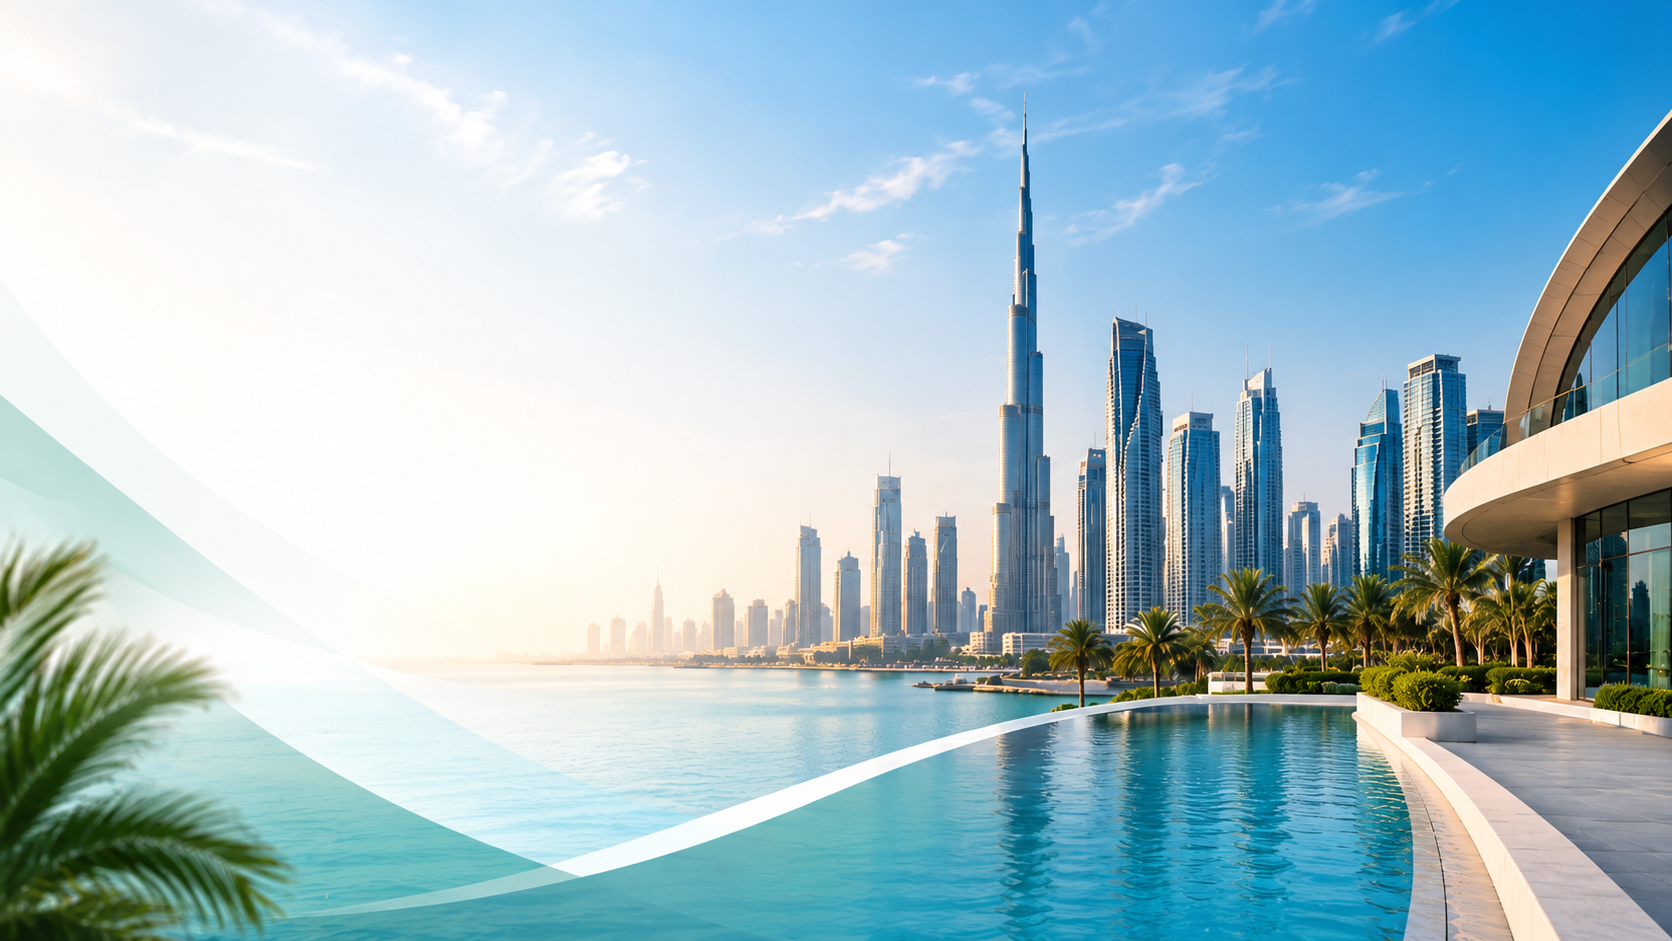
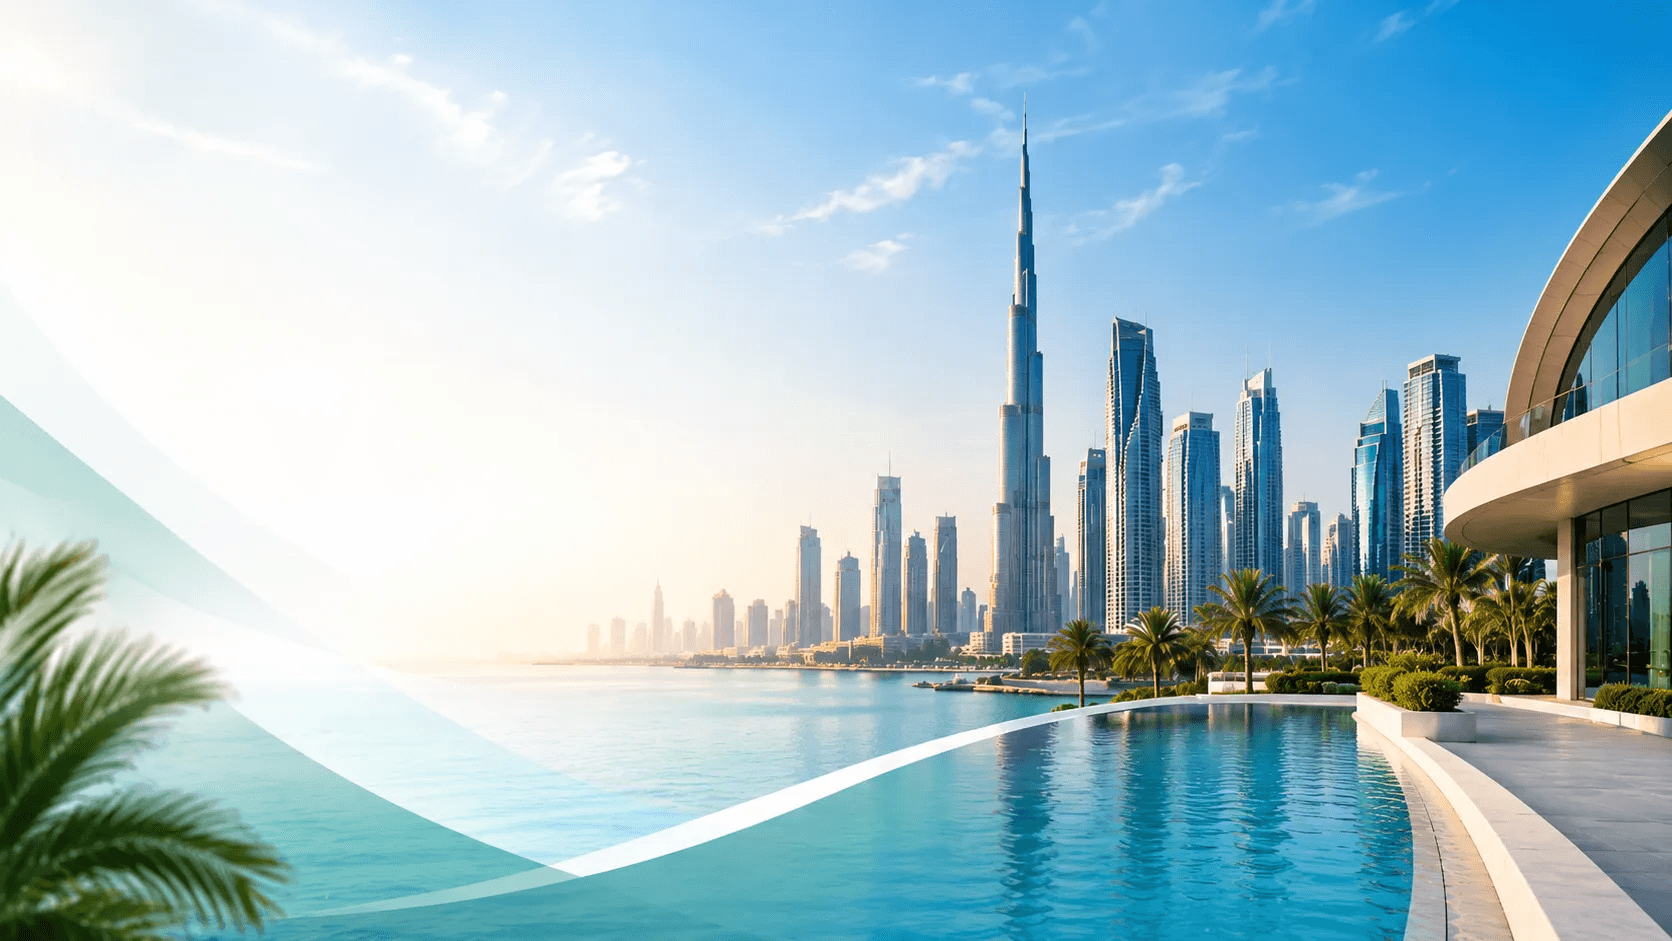
feat: add initial frontend components, global styles, and layout for auditclue web application

diff --git a/src/components/HeroSection.tsx b/src/components/HeroSection.tsx
@@ -1,13 +1,12 @@
 "use client";
 
-import { useState, useEffect, type FormEvent } from "react";
+import { useState, type FormEvent } from "react";
 import {
   ArrowDown,
   ArrowUpRight,
   CheckCircle2,
   LockKeyhole,
 } from "lucide-react";
-import FlowText from "@/components/FlowText";
 
 const services = [
   { value: "corporate-tax", label: "UAE Corporate Tax" },
@@ -29,25 +28,6 @@ export default function HeroSection() {
     message: "",
   });
   const [submitted, setSubmitted] = useState(false);
-  const [heroActive, setHeroActive] = useState(false);
-
-  useEffect(() => {
-    const triggerHero = () => {
-      setHeroActive(true);
-    };
-
-    window.addEventListener("auditclue:curtainOpen", triggerHero);
-
-    // Fallback: in case event was already fired or page accessed directly
-    const fallback = setTimeout(() => {
-      setHeroActive(true);
-    }, 1000);
-
-    return () => {
-      window.removeEventListener("auditclue:curtainOpen", triggerHero);
-      clearTimeout(fallback);
-    };
-  }, []);
 
   function handleSubmit(event: FormEvent<HTMLFormElement>) {
     event.preventDefault();
@@ -65,63 +45,24 @@ export default function HeroSection() {
       <div className="mx-auto grid max-w-355 grid-cols-1 items-center gap-8 sm:gap-12 lg:grid-cols-12 lg:gap-14 px-4 sm:px-8 lg:px-10">
         {/* Left: Editorial introduction */}
         <div className="lg:col-span-6">
-          <div
-            className={`eyebrow mb-4 sm:mb-6 text-[11px] sm:text-[13px] tracking-wider transition-opacity duration-500 ${
-              heroActive ? "hero-fade-up" : "opacity-0"
-            }`}
-            style={{ animationDelay: "0.05s" }}
-          >
+          <div className="eyebrow mb-4 sm:mb-6 text-[11px] sm:text-[13px] tracking-wider">
             <span className="h-2 w-2 rounded-full bg-brand-teal" />
             Trusted by Businesses Across UAE
           </div>
 
-          <h1
-            aria-label="Fully Digital Audit, Tax & Advisory Services for Modern Businesses"
-            className="max-w-190 text-[clamp(2rem,6.8vw,4.6rem)] font-medium leading-[1.14] sm:leading-[1.08] tracking-[-0.035em] sm:tracking-[-0.045em] text-brand-navy"
-          >
-            <span aria-hidden="true">
-              {heroActive ? (
-                <>
-                  <FlowText
-                    text="Fully Digital Audit, Tax"
-                    startDelay={0.05}
-                    charDelay={0.018}
-                  />
-                  <br />
-                  <FlowText
-                    text="& Advisory Services for Modern Businesses"
-                    startDelay={0.32}
-                    charDelay={0.018}
-                    className="text-brand-teal-dark"
-                  />
-                </>
-              ) : (
-                <span className="opacity-0">
-                  Fully Digital Audit, Tax
-                  <br />
-                  <span className="text-brand-teal-dark">
-                    & Advisory Services for Modern Businesses
-                  </span>
-                </span>
-              )}
+          <h1 className="max-w-190 text-[clamp(2rem,6.8vw,4.6rem)] font-medium leading-[1.14] sm:leading-[1.08] tracking-[-0.035em] sm:tracking-[-0.045em] text-brand-navy">
+            Fully Digital Audit, Tax
+            <br />
+            <span className="text-brand-teal-dark">
+              & Advisory Services for Modern Businesses
             </span>
           </h1>
 
-          <p
-            className={`mt-4 sm:mt-7 max-w-147.5 text-[15px] sm:text-lg leading-relaxed sm:leading-8 text-(--text-secondary) transition-opacity duration-500 ${
-              heroActive ? "hero-fade-up" : "opacity-0"
-            }`}
-            style={{ animationDelay: "0.55s" }}
-          >
+          <p className="mt-4 sm:mt-7 max-w-147.5 text-[15px] sm:text-lg leading-relaxed sm:leading-8 text-(--text-secondary)">
             Auditclue Global Advisory Services LLC provides end-to-end digital solutions for audit, accounting, UAE corporate tax, VAT, finance, compliance, and business advisory services.
           </p>
 
-          <div
-            className={`mt-6 sm:mt-8 flex flex-col gap-3 sm:flex-row sm:items-center transition-opacity duration-500 ${
-              heroActive ? "hero-fade-up" : "opacity-0"
-            }`}
-            style={{ animationDelay: "0.7s" }}
-          >
+          <div className="mt-6 sm:mt-8 flex flex-col gap-3 sm:flex-row sm:items-center">
             <a
               href="#consult-form"
               className="group relative inline-flex items-center justify-center gap-3 overflow-hidden rounded-full bg-brand-teal px-7 min-h-12 sm:min-h-13 text-sm sm:text-base font-semibold text-white shadow-[0_6px_22px_rgba(54,167,131,0.28)] transition-all duration-500 ease-[cubic-bezier(0.16,1,0.3,1)] hover:shadow-[0_12px_32px_rgba(23,45,67,0.3)] hover:-translate-y-0.5 active:translate-y-0 active:scale-[0.98]"
@@ -190,12 +131,7 @@ export default function HeroSection() {
           </div>
 
           {/* Hand-drawn annotation: Growing Businesses Across UAE (Desktop & Tablet) */}
-          <div
-            className={`mt-6 hidden items-center gap-2 pl-4 sm:flex lg:mt-8 lg:pl-14 transition-opacity duration-500 ${
-              heroActive ? "hero-fade-up" : "opacity-0"
-            }`}
-            style={{ animationDelay: "0.85s" }}
-          >
+          <div className="mt-6 hidden items-center gap-2 pl-4 sm:flex lg:mt-8 lg:pl-14">
             <span className="font-caveat text-xl font-bold leading-tight text-[#475569] sm:text-2xl">
               Growing
               <br />
@@ -222,10 +158,7 @@ export default function HeroSection() {
         {/* Right: Consultation card */}
         <div
           id="consult-form"
-          className={`scroll-mt-20 lg:col-span-6 mt-4 lg:mt-0 transition-opacity duration-500 ${
-            heroActive ? "hero-fade-up" : "opacity-0"
-          }`}
-          style={{ animationDelay: "0.2s" }}
+          className="scroll-mt-20 lg:col-span-6 mt-4 lg:mt-0"
         >
           <div className="relative rounded-2xl border border-[var(--border-default)] bg-white p-5 sm:p-8 lg:p-9 shadow-[0_24px_80px_rgba(35,63,91,0.10)]">
             {submitted ? (

diff --git a/src/components/WhyChooseSection.tsx b/src/components/WhyChooseSection.tsx
@@ -310,9 +310,9 @@ export default function WhyChooseSection() {
                   </span>
                 </div>
 
-                <h4 className="text-lg font-serif font-medium text-white mb-2 leading-snug">
+                <h3 className="text-lg font-serif font-medium text-white mb-2 leading-snug">
                   {card3.title}
-                </h4>
+                </h3>
 
                 <p className="text-sm text-[#A8B7C9] leading-relaxed font-sans">
                   {card3.desc}
@@ -338,9 +338,9 @@ export default function WhyChooseSection() {
                   </span>
                 </div>
 
-                <h4 className="text-lg font-serif font-medium text-white mb-2 leading-snug">
+                <h3 className="text-lg font-serif font-medium text-white mb-2 leading-snug">
                   {card4.title}
-                </h4>
+                </h3>
 
                 <p className="text-sm text-[#A8B7C9] leading-relaxed font-sans">
                   {card4.desc}
@@ -366,9 +366,9 @@ export default function WhyChooseSection() {
                   </span>
                 </div>
 
-                <h4 className="text-lg font-serif font-medium text-white mb-2 leading-snug">
+                <h3 className="text-lg font-serif font-medium text-white mb-2 leading-snug">
                   {card5.title}
-                </h4>
+                </h3>
 
                 <p className="text-sm text-[#A8B7C9] leading-relaxed font-sans">
                   {card5.desc}
@@ -394,9 +394,9 @@ export default function WhyChooseSection() {
                   </span>
                 </div>
 
-                <h4 className="text-lg font-serif font-medium text-white mb-2 leading-snug">
+                <h3 className="text-lg font-serif font-medium text-white mb-2 leading-snug">
                   {card6.title}
-                </h4>
+                </h3>
 
                 <p className="text-sm text-[#A8B7C9] leading-relaxed font-sans">
                   {card6.desc}

diff --git a/src/components/ClientPortalSection.tsx b/src/components/ClientPortalSection.tsx
@@ -308,9 +308,9 @@ export default function ClientPortalSection() {
                   <ShieldCheck className="w-4 h-4" />
                 </div>
                 <div>
-                  <h4 className="text-sm font-semibold text-white mb-0.5">
+                  <h3 className="text-sm font-semibold text-white mb-0.5">
                     Immutable Audit Documentation
-                  </h4>
+                  </h3>
                   <p className="text-xs text-[#A8B7C9] leading-relaxed">
                     Bank-ready IFRS financial statements and tax return receipts archived permanently with tamper-proof audit trails.
                   </p>
@@ -322,9 +322,9 @@ export default function ClientPortalSection() {
                   <Calendar className="w-4 h-4" />
                 </div>
                 <div>
-                  <h4 className="text-sm font-semibold text-white mb-0.5">
+                  <h3 className="text-sm font-semibold text-white mb-0.5">
                     Automated Statutory Deadlines
-                  </h4>
+                  </h3>
                   <p className="text-xs text-[#A8B7C9] leading-relaxed">
                     Automated SMS and email reminders prior to any FTA VAT or Corporate Tax due date, eliminating penalty risks.
                   </p>
@@ -336,9 +336,9 @@ export default function ClientPortalSection() {
                   <HardDrive className="w-4 h-4" />
                 </div>
                 <div>
-                  <h4 className="text-sm font-semibold text-white mb-0.5">
+                  <h3 className="text-sm font-semibold text-white mb-0.5">
                     Multi-Entity Portfolio Consolidation
-                  </h4>
+                  </h3>
                   <p className="text-xs text-[#A8B7C9] leading-relaxed">
                     Switch between Free Zone entities, mainland trading companies, and offshore holding structures within one dashboard.
                   </p>

diff --git a/src/components/Footer.tsx b/src/components/Footer.tsx
@@ -150,7 +150,7 @@ export default function Footer() {
 
           {/* Column 1 — Links & Tools */}
           <div>
-            <h4 className="text-sm font-bold text-white mb-5 tracking-wide">Navigation & Tools</h4>
+            <h3 className="text-sm font-bold text-white mb-5 tracking-wide">Navigation & Tools</h3>
             <ul className="space-y-2.5 text-[14px] text-[#A8B7C9]">
               <li><Link href="/#hero" className="hover:text-white transition-colors">Home</Link></li>
               <li><Link href="/about" className="hover:text-white transition-colors">About Us</Link></li>
@@ -166,7 +166,7 @@ export default function Footer() {
 
           {/* Column 2 — Practices */}
           <div>
-            <h4 className="text-sm font-bold text-white mb-5 tracking-wide">Practices</h4>
+            <h3 className="text-sm font-bold text-white mb-5 tracking-wide">Practices</h3>
             <ul className="space-y-3 text-[15px] text-[#A8B7C9]">
               <li><Link href="/services/corporate-tax" className="hover:text-white transition-colors">Corporate Tax (9%)</Link></li>
               <li><Link href="/services/audit-assurance" className="hover:text-white transition-colors">Statutory Audit</Link></li>
@@ -187,7 +187,7 @@ export default function Footer() {
 
             {/* Heading spanning both */}
             <div className="col-span-1 sm:col-span-2">
-              <h4 className="text-sm font-bold text-white mb-5 tracking-wide">Connect & Verify</h4>
+              <h3 className="text-sm font-bold text-white mb-5 tracking-wide">Connect & Verify</h3>
             </div>
 
             {/* Dubai Desk */}

diff --git a/src/components/Navbar.tsx b/src/components/Navbar.tsx
@@ -213,9 +213,11 @@ export default function Navbar() {
             <Image
               src="/logo-transparent.png"
               alt="Auditclue Global Advisory Services LLC"
-              width={340}
-              height={120}
+              width={250}
+              height={75}
               priority
+              fetchPriority="high"
+              sizes="(max-width: 640px) 175px, 250px"
               className="h-auto w-43.75 object-contain sm:w-62.5"
             />
           </Link>
@@ -582,7 +584,7 @@ export default function Navbar() {
                   href={link.href}
                   onClick={closeMenu}
                   tabIndex={menuOpen ? 0 : -1}
-                  className={`flex items-center justify-between py-3.5 text-base font-medium transition-colors ${
+                  className={`flex items-center justify-between py-3.5 text-base font-medium ${
                     active
                       ? "text-brand-teal-dark font-semibold"
                       : "text-brand-navy hover:text-brand-teal-dark"

diff --git a/src/app/globals.css b/src/app/globals.css
@@ -30,7 +30,7 @@
   /* Typography */
   --text-primary: #233f5b;
   --text-secondary: #363636;
-  --text-muted: #718096;
+  --text-muted: #475569;
   --text-inverse: #ffffff;
 
   /* Borders and effects */
@@ -1004,7 +1004,7 @@ label {
   position: relative;
   isolation: isolate;
   background-color: #ffffff;
-  background-image: url("/images/hero-bg.png");
+  background-image: url("/images/hero-bg.webp");
   background-size: cover;
   background-position: center;
   background-repeat: no-repeat;
@@ -1039,7 +1039,7 @@ label {
         rgba(246, 248, 250, 0.96) 80%,
         #f6f8fa 100%
       ),
-      url("/images/hero-bg.png");
+      url("/images/hero-bg-mobile.webp");
     background-size: cover;
     background-position: 72% center;
   }
@@ -1057,7 +1057,7 @@ label {
         rgba(246, 248, 250, 0.98) 85%,
         #f6f8fa 100%
       ),
-      url("/images/hero-bg.png");
+      url("/images/hero-bg-mobile.webp");
     background-size: cover;
     background-position: 70% center;
   }

diff --git a/src/components/AboutSection.tsx b/src/components/AboutSection.tsx
@@ -288,10 +288,10 @@ export default function AboutSection() {
             >
               {/* Modern Dubai Corporate Advisory in Portrait Orientation */}
               <Image
-                src="/images/about-advisory.jpg"
+                src="/images/about-advisory.webp"
                 alt="Auditclue corporate advisory and strategic financial consulting team in Dubai DIFC"
                 fill
-                sizes="(max-width: 1024px) 100vw, 480px"
+                sizes="(max-width: 640px) 92vw, 480px"
                 className="object-cover object-center transition-transform duration-700"
                 priority={false}
               />

diff --git a/next.config.ts b/next.config.ts
@@ -3,6 +3,9 @@ import type { NextConfig } from "next";
 const nextConfig: NextConfig = {
   /* config options here */
   images: {
+    formats: ["image/avif", "image/webp"],
+    deviceSizes: [360, 480, 640, 750, 828, 1080, 1200, 1920],
+    imageSizes: [16, 32, 48, 64, 96, 128, 256, 384],
     remotePatterns: [
       {
         protocol: "https",
@@ -10,8 +13,10 @@ const nextConfig: NextConfig = {
       },
     ],
   },
+  compress: true,
   experimental: {
     agentFeedback: true,
+    optimizePackageImports: ["lucide-react"],
   },
   cacheComponents: true,
   partialPrefetching: true,

diff --git a/src/app/page.tsx b/src/app/page.tsx
@@ -1,4 +1,3 @@
-import Preloader from "@/components/Preloader";
 import Navbar from "@/components/Navbar";
 import HeroSection from "@/components/HeroSection";
 import StatsBanner from "@/components/StatsBanner";
@@ -15,9 +14,6 @@ import Footer from "@/components/Footer";
 export default function Home() {
   return (
     <main className="min-h-screen flex flex-col w-full max-w-full overflow-x-hidden">
-      {/* Home Page Clean Minimalist Preloader */}
-      <Preloader />
-
       {/* Navigation Header */}
       <Navbar />
 

diff --git a/src/components/SmoothScroll.tsx b/src/components/SmoothScroll.tsx
@@ -22,6 +22,13 @@ export default function SmoothScroll({
     ).matches;
     if (prefersReducedMotion) return;
 
+    // Use native hardware-accelerated 120fps scrolling on touch/mobile devices
+    // to avoid main-thread touch hijacking and forced reflows during page audits
+    const isTouchMobile =
+      window.innerWidth < 768 ||
+      window.matchMedia("(pointer: coarse)").matches;
+    if (isTouchMobile) return;
+
     gsap.registerPlugin(ScrollTrigger);
 
     // Initialize Lenis with calibrated momentum:

diff --git a/src/components/FlowText.tsx b/src/components/FlowText.tsx
@@ -79,9 +79,9 @@ export default function FlowText({
   return (
     <Element
       ref={containerRef}
-      aria-label={text}
       className={className}
     >
+      <span className="sr-only">{text}</span>
       <span aria-hidden="true">
         {words.map((word, wordIndex) => {
           const letters = Array.from(word);

diff --git a/src/app/layout.tsx b/src/app/layout.tsx
@@ -20,7 +20,7 @@ const kumbhSans = Kumbh_Sans({
 const caveat = Caveat({
   variable: "--font-caveat",
   subsets: ["latin"],
-  weight: ["500", "600", "700"],
+  weight: ["700"],
   display: "swap",
 });
 
